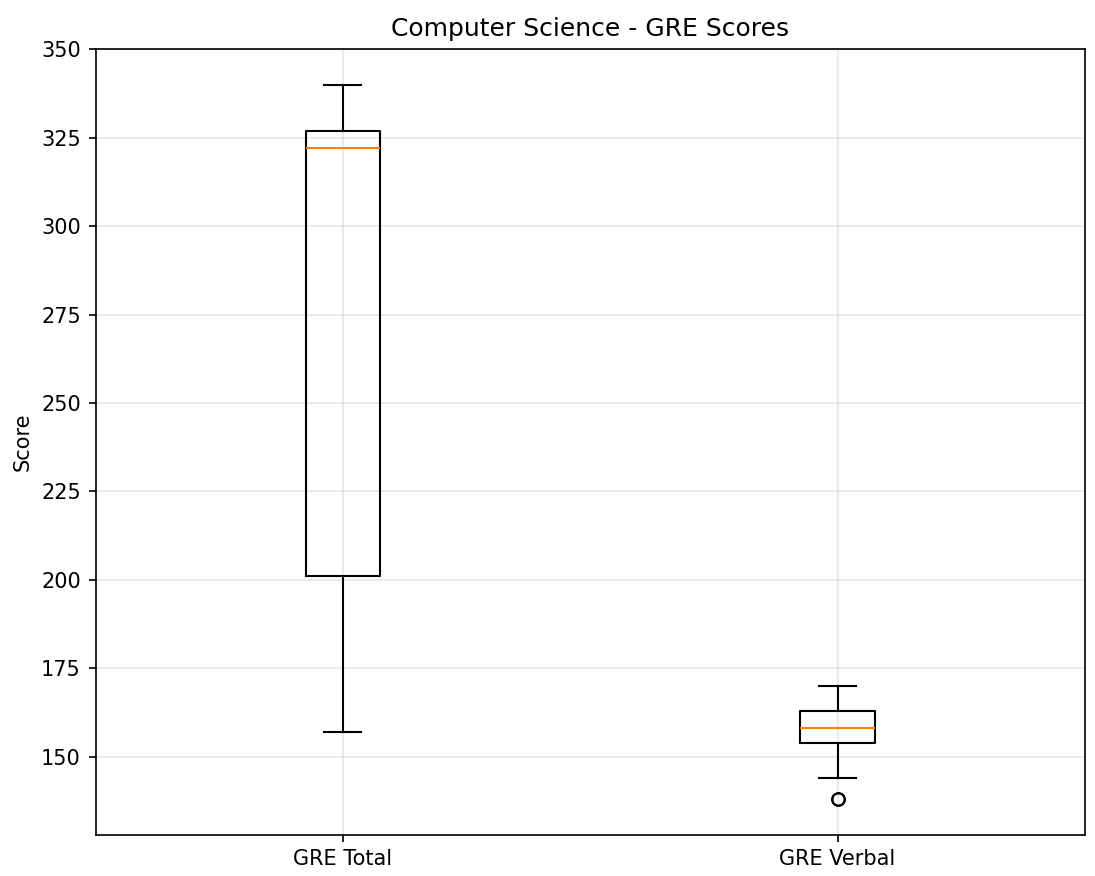
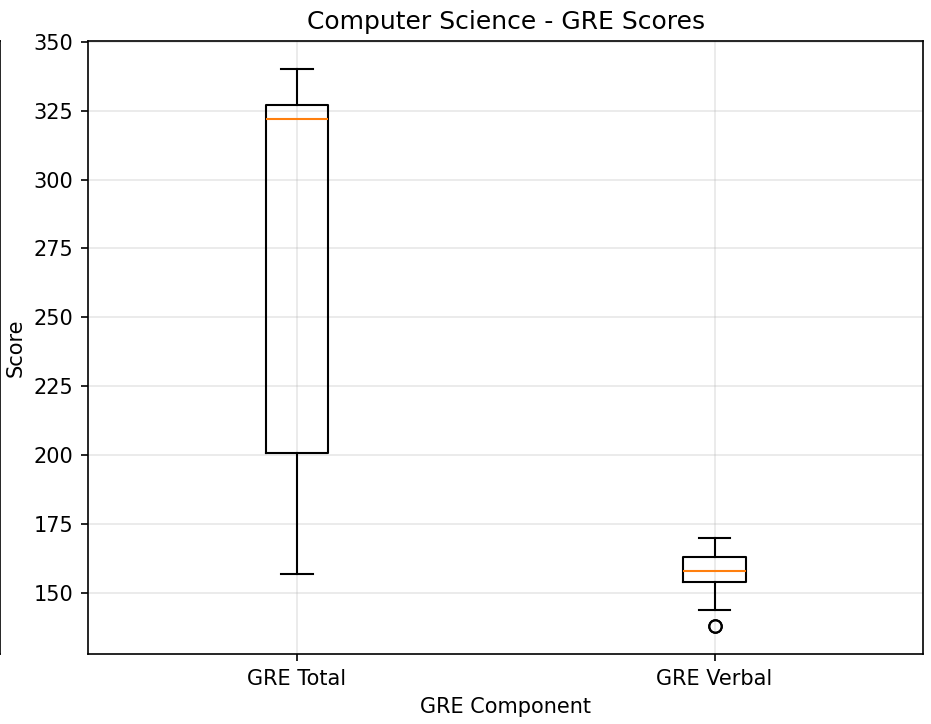
update graphs x axis

diff --git a/module_9/kmeans.py b/module_9/kmeans.py
@@ -117,6 +117,7 @@ fig, (ax1, ax2) = plt.subplots(1, 2, figsize=(15, 6))
 ax1.boxplot([phil_gre_data['gre_score'].dropna(), phil_gre_data['gre_v_score'].dropna()],
            labels=['GRE Total', 'GRE Verbal'])
 ax1.set_title('Philosophy - GRE Scores')
+ax1.set_xlabel('GRE Component')
 ax1.set_ylabel('Score')
 ax1.grid(True, alpha=0.3)
 
@@ -124,6 +125,7 @@ ax1.grid(True, alpha=0.3)
 ax2.boxplot([cs_gre_data['gre_score'].dropna(), cs_gre_data['gre_v_score'].dropna()],
            labels=['GRE Total', 'GRE Verbal'])
 ax2.set_title('Computer Science - GRE Scores')
+ax2.set_xlabel('GRE Component')
 ax2.set_ylabel('Score')
 ax2.grid(True, alpha=0.3)
 
